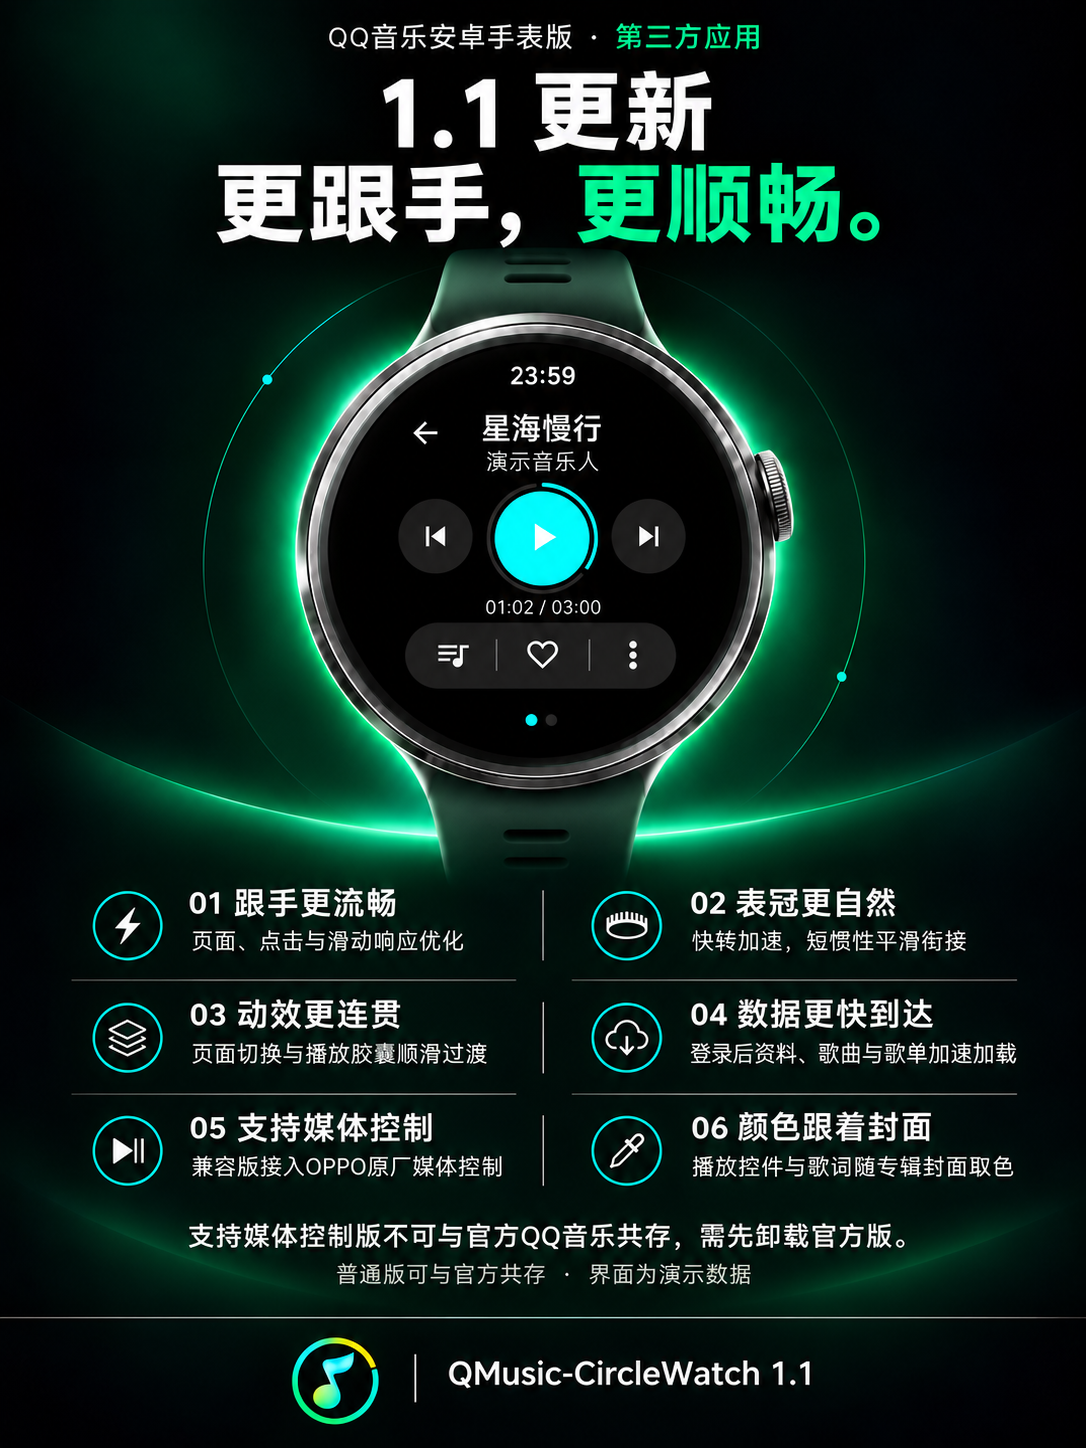
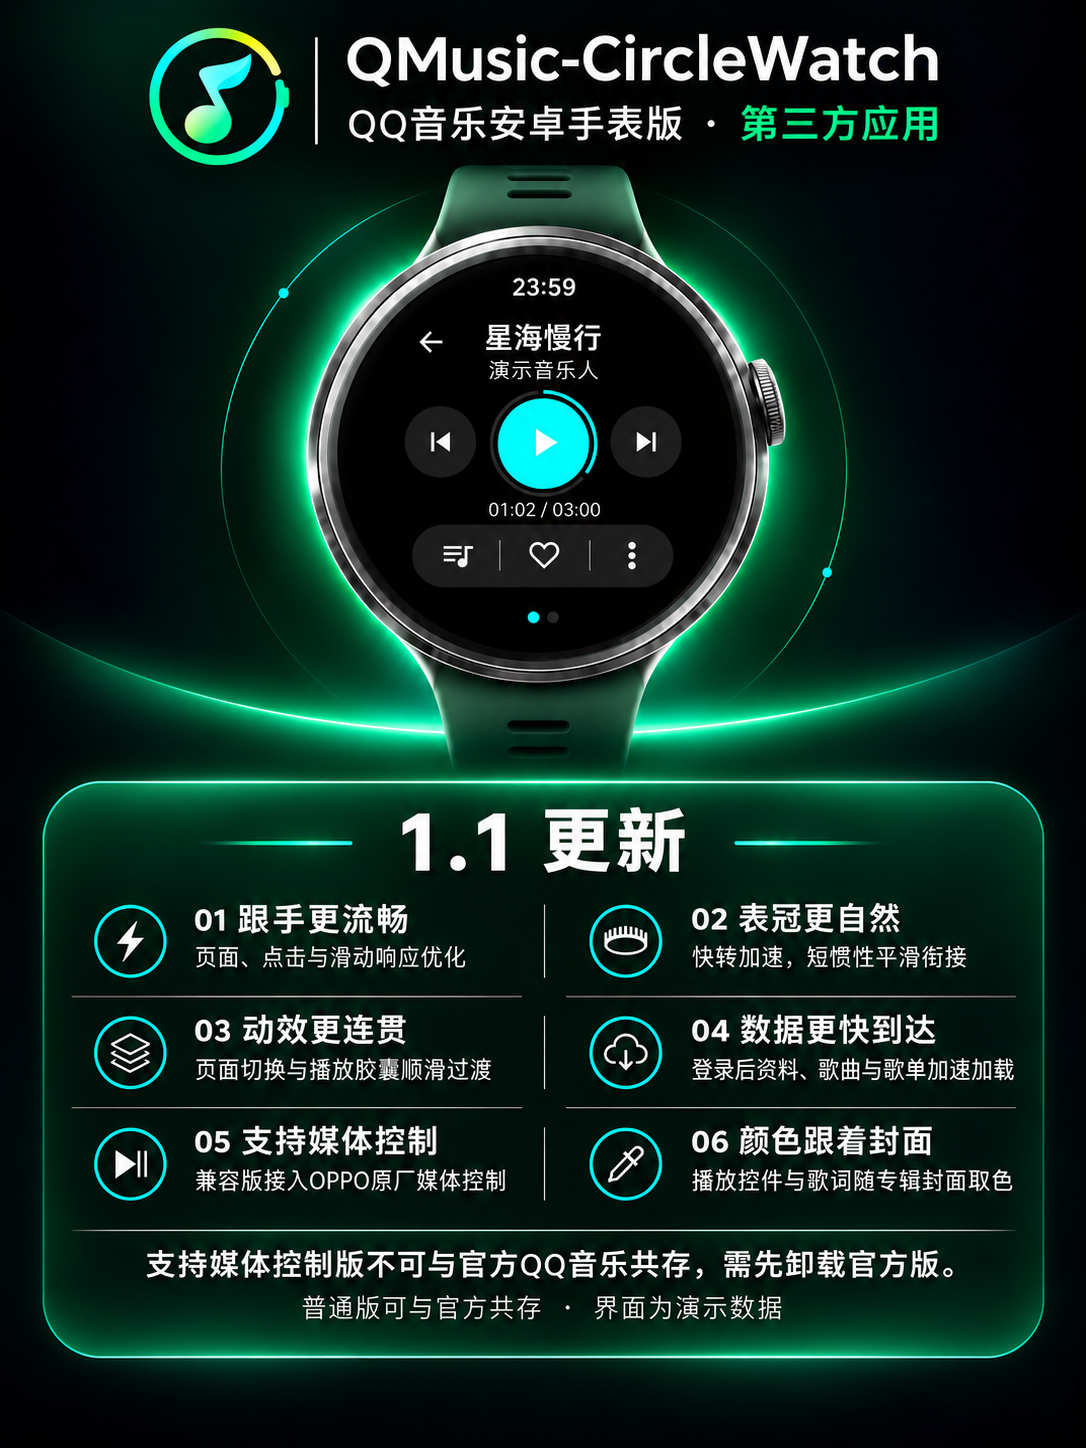
Refine 1.1 poster hierarchy and use stable private release links

diff --git a/docs/preview/index.html b/docs/preview/index.html
@@ -1,2 +1,2 @@
 <!doctype html><html lang="zh-CN"><meta charset="utf-8"><meta name="viewport" content="width=device-width,initial-scale=1"><title>QMusic-CircleWatch 1.1 · 界面预览</title><style>
-:root{color-scheme:dark}*{box-sizing:border-box}body{margin:0;background:#0c100f;color:#eef4f0;font:16px/1.8 system-ui,"Microsoft YaHei",sans-serif}main{max-width:1120px;margin:auto;padding:56px 28px}h1{font-size:clamp(30px,5vw,52px);line-height:1.2;margin:12px 0 20px}h2{margin-top:48px}p{max-width:860px;color:#b8c8c0}a{color:#65e4a3}.badge{color:#65e4a3;letter-spacing:.1em;font-size:13px}.grid{display:grid;grid-template-columns:repeat(auto-fit,minmax(235px,1fr));gap:24px}figure{margin:0;padding:24px 15px;background:#151c18;border:1px solid #29372f;border-radius:24px;text-align:center}img{display:block;width:100%;max-width:280px;height:auto;margin:auto;border-radius:50%}figcaption{margin-top:16px;color:#d8e8dd}ul{padding-left:22px;color:#b8c8c0}footer{margin-top:48px;border-top:1px solid #29372f;padding-top:24px;color:#91a599}.app-icon{width:100px;margin:24px 0;border-radius:0}.posters{max-width:520px;margin:24px auto 48px}.posters img{max-width:none;border-radius:12px}</style><main><div class="badge">PRIVATE REVIEW · VERSION 1.1</div><img class="app-icon" src="../../branding/qmusic-circlewatch-icon.png" alt="应用图标"><h1>QMusic-CircleWatch</h1><p>QQ 音乐安卓手表版第三方应用，适用于圆形表盘。</p><p>参考云松天气项目介绍页的组织方式，集中展示功能、二创变化与各界面的实际渲染。当前仓库已设为私有，1.1 工程、两个安装包和更新文档同步供用户审阅，确认后再公开。</p><p><a href="https://github.com/SIAKNG/QMusic-CircleWatch">源码与完整介绍</a> · <a href="https://github.com/SIAKNG/QMusic-CircleWatch/releases/tag/untagged-753d7a6a32293452e7a0">1.1 安装包草稿</a> · <a href="../UPSTREAM_DIFF.md">原版对照</a></p><p><a href="../RELEASE_1_1.md">1.1 双版本安装与更新说明</a></p><h2>1.1 主要更新</h2><ul><li>重点优化整体 APP 的使用流畅度与跟手性，改善页面打开、点击反馈、列表滑动等日常操作的响应，减少不必要的等待和界面刷新。</li><li>优化表冠滚动表现，调整快慢旋转的速度反馈、短惯性与首次起转响应，让滚动阻尼和松手后的停顿过渡更自然流畅。</li><li>优化页面打开、切换与逐层返回的动效，以及胶囊播放悬浮窗的展开和收起效果，让专辑图与容器的过渡更加连贯自然。</li><li>优化网络请求与数据复用，缩短登录后用户资料、歌曲列表及歌单的加载等待，让内容更快显示，重复进入页面时更快响应。</li><li>新增“支持媒体控制版”，在当前已验证的 OPPO 手表原厂媒体控制中显示歌曲、歌手、封面与应用图标，并支持播放、暂停及上下首操作。</li><li>支持专辑封面取色，播放控件、进度环及歌词高亮随当前歌曲的封面自动变换配色，让播放界面保持统一。</li></ul><p><strong>支持媒体控制版安装提示：</strong>支持媒体控制版使用与手表官方 QQ 音乐相同的应用包名，占用相同的安装位置，因此无法与官方 QQ 音乐共存。用户必须先卸载手表上的官方 QQ 音乐，才能安装此版本；卸载会删除官方应用的本地登录与下载数据。普通版可以与官方 QQ 音乐共存。</p><h2>应用介绍图</h2><p>首张宣传图为设计概览；实际界面效果见下方原生截图。</p><div class="posters"><a href="../posters/01-round-music.png"><img loading="lazy" src="../posters/01-round-music.png" alt="圆屏音乐"></a></div><h2>原生实机界面 · 22 张</h2><p>采集于 2026-11-01—2026-11-02，保留当时旧版占位图标，未重绘。</p><p>OWW251 · Android 11 · 466 × 466。图片由离线展示包复用真实页面生成，数据为演示内容；扫码页不可用于登录。点击查看未编辑的原始 PNG。</p><div class="grid"><figure><a href="../screenshots/showcase/home.png"><img loading="lazy" src="../screenshots/showcase/home.png" alt="发现首页"></a><figcaption>发现首页</figcaption></figure><figure><a href="../screenshots/showcase/home-mini.png"><img loading="lazy" src="../screenshots/showcase/home-mini.png" alt="收起的专辑圆标与进度环"></a><figcaption>收起的专辑圆标与进度环</figcaption></figure><figure><a href="../screenshots/showcase/my.png"><img loading="lazy" src="../screenshots/showcase/my.png" alt="我的音乐"></a><figcaption>我的音乐</figcaption></figure><figure><a href="../screenshots/showcase/search.png"><img loading="lazy" src="../screenshots/showcase/search.png" alt="搜索与历史"></a><figcaption>搜索与历史</figcaption></figure><figure><a href="../screenshots/showcase/search-results.png"><img loading="lazy" src="../screenshots/showcase/search-results.png" alt="搜索结果"></a><figcaption>搜索结果</figcaption></figure><figure><a href="../screenshots/showcase/login.png"><img loading="lazy" src="../screenshots/showcase/login.png" alt="扫码登录布局"></a><figcaption>扫码登录布局</figcaption></figure><figure><a href="../screenshots/showcase/liked.png"><img loading="lazy" src="../screenshots/showcase/liked.png" alt="喜欢的歌曲"></a><figcaption>喜欢的歌曲</figcaption></figure><figure><a href="../screenshots/showcase/created.png"><img loading="lazy" src="../screenshots/showcase/created.png" alt="自建歌单"></a><figcaption>自建歌单</figcaption></figure><figure><a href="../screenshots/showcase/collected.png"><img loading="lazy" src="../screenshots/showcase/collected.png" alt="收藏歌单"></a><figcaption>收藏歌单</figcaption></figure><figure><a href="../screenshots/showcase/recent.png"><img loading="lazy" src="../screenshots/showcase/recent.png" alt="最近播放"></a><figcaption>最近播放</figcaption></figure><figure><a href="../screenshots/showcase/detail.png"><img loading="lazy" src="../screenshots/showcase/detail.png" alt="歌单详情"></a><figcaption>歌单详情</figcaption></figure><figure><a href="../screenshots/showcase/downloads.png"><img loading="lazy" src="../screenshots/showcase/downloads.png" alt="缓存与任务"></a><figcaption>缓存与任务</figcaption></figure><figure><a href="../screenshots/showcase/player.png"><img loading="lazy" src="../screenshots/showcase/player.png" alt="播放控制"></a><figcaption>播放控制</figcaption></figure><figure><a href="../screenshots/showcase/lyrics.png"><img loading="lazy" src="../screenshots/showcase/lyrics.png" alt="逐字歌词与双语翻译"></a><figcaption>逐字歌词与双语翻译</figcaption></figure><figure><a href="../screenshots/showcase/queue.png"><img loading="lazy" src="../screenshots/showcase/queue.png" alt="播放队列"></a><figcaption>播放队列</figcaption></figure><figure><a href="../screenshots/showcase/settings.png"><img loading="lazy" src="../screenshots/showcase/settings.png" alt="设置中心"></a><figcaption>设置中心</figcaption></figure><figure><a href="../screenshots/showcase/settings-display.png"><img loading="lazy" src="../screenshots/showcase/settings-display.png" alt="显示与歌词设置"></a><figcaption>显示与歌词设置</figcaption></figure><figure><a href="../screenshots/showcase/settings-playback.png"><img loading="lazy" src="../screenshots/showcase/settings-playback.png" alt="播放设置"></a><figcaption>播放设置</figcaption></figure><figure><a href="../screenshots/showcase/settings-network.png"><img loading="lazy" src="../screenshots/showcase/settings-network.png" alt="网络与缓存设置"></a><figcaption>网络与缓存设置</figcaption></figure><figure><a href="../screenshots/showcase/settings-about.png"><img loading="lazy" src="../screenshots/showcase/settings-about.png" alt="关于与版本"></a><figcaption>关于与版本</figcaption></figure><figure><a href="../screenshots/showcase/font-selector.png"><img loading="lazy" src="../screenshots/showcase/font-selector.png" alt="选择弹层"></a><figcaption>选择弹层</figcaption></figure><figure><a href="../screenshots/showcase/confirm.png"><img loading="lazy" src="../screenshots/showcase/confirm.png" alt="确认弹窗"></a><figcaption>确认弹窗</figcaption></figure></div><footer>基于 huanghao897/QMusicWatch 0.9.14 二次开发，维护者 SIAKNG。原版已有部分圆屏、表冠与歌词能力。OWW251 已完成兼容版重新扫码与原厂媒体控制实测；账号写入、真实缓存、蓝牙和 X3 仍待进一步实机验收。更多说明见仓库 README 与 docs。</footer></main></html>
+:root{color-scheme:dark}*{box-sizing:border-box}body{margin:0;background:#0c100f;color:#eef4f0;font:16px/1.8 system-ui,"Microsoft YaHei",sans-serif}main{max-width:1120px;margin:auto;padding:56px 28px}h1{font-size:clamp(30px,5vw,52px);line-height:1.2;margin:12px 0 20px}h2{margin-top:48px}p{max-width:860px;color:#b8c8c0}a{color:#65e4a3}.badge{color:#65e4a3;letter-spacing:.1em;font-size:13px}.grid{display:grid;grid-template-columns:repeat(auto-fit,minmax(235px,1fr));gap:24px}figure{margin:0;padding:24px 15px;background:#151c18;border:1px solid #29372f;border-radius:24px;text-align:center}img{display:block;width:100%;max-width:280px;height:auto;margin:auto;border-radius:50%}figcaption{margin-top:16px;color:#d8e8dd}ul{padding-left:22px;color:#b8c8c0}footer{margin-top:48px;border-top:1px solid #29372f;padding-top:24px;color:#91a599}.app-icon{width:100px;margin:24px 0;border-radius:0}.posters{max-width:520px;margin:24px auto 48px}.posters img{max-width:none;border-radius:12px}</style><main><div class="badge">PRIVATE REVIEW · VERSION 1.1</div><img class="app-icon" src="../../branding/qmusic-circlewatch-icon.png" alt="应用图标"><h1>QMusic-CircleWatch</h1><p>QQ 音乐安卓手表版第三方应用，适用于圆形表盘。</p><p>参考云松天气项目介绍页的组织方式，集中展示功能、二创变化与各界面的实际渲染。当前仓库已设为私有，1.1 工程、两个安装包和更新文档同步供用户审阅，确认后再公开。</p><p><a href="https://github.com/SIAKNG/QMusic-CircleWatch">源码与完整介绍</a> · <a href="https://github.com/SIAKNG/QMusic-CircleWatch/releases">1.1 安装包草稿</a> · <a href="../UPSTREAM_DIFF.md">原版对照</a></p><p><a href="../RELEASE_1_1.md">1.1 双版本安装与更新说明</a></p><h2>1.1 主要更新</h2><ul><li>重点优化整体 APP 的使用流畅度与跟手性，改善页面打开、点击反馈、列表滑动等日常操作的响应，减少不必要的等待和界面刷新。</li><li>优化表冠滚动表现，调整快慢旋转的速度反馈、短惯性与首次起转响应，让滚动阻尼和松手后的停顿过渡更自然流畅。</li><li>优化页面打开、切换与逐层返回的动效，以及胶囊播放悬浮窗的展开和收起效果，让专辑图与容器的过渡更加连贯自然。</li><li>优化网络请求与数据复用，缩短登录后用户资料、歌曲列表及歌单的加载等待，让内容更快显示，重复进入页面时更快响应。</li><li>新增“支持媒体控制版”，在当前已验证的 OPPO 手表原厂媒体控制中显示歌曲、歌手、封面与应用图标，并支持播放、暂停及上下首操作。</li><li>支持专辑封面取色，播放控件、进度环及歌词高亮随当前歌曲的封面自动变换配色，让播放界面保持统一。</li></ul><p><strong>支持媒体控制版安装提示：</strong>支持媒体控制版使用与手表官方 QQ 音乐相同的应用包名，占用相同的安装位置，因此无法与官方 QQ 音乐共存。用户必须先卸载手表上的官方 QQ 音乐，才能安装此版本；卸载会删除官方应用的本地登录与下载数据。普通版可以与官方 QQ 音乐共存。</p><h2>应用介绍图</h2><p>首张宣传图为设计概览；实际界面效果见下方原生截图。</p><div class="posters"><a href="../posters/01-round-music.png"><img loading="lazy" src="../posters/01-round-music.png" alt="圆屏音乐"></a></div><h2>原生实机界面 · 22 张</h2><p>采集于 2026-11-01—2026-11-02，保留当时旧版占位图标，未重绘。</p><p>OWW251 · Android 11 · 466 × 466。图片由离线展示包复用真实页面生成，数据为演示内容；扫码页不可用于登录。点击查看未编辑的原始 PNG。</p><div class="grid"><figure><a href="../screenshots/showcase/home.png"><img loading="lazy" src="../screenshots/showcase/home.png" alt="发现首页"></a><figcaption>发现首页</figcaption></figure><figure><a href="../screenshots/showcase/home-mini.png"><img loading="lazy" src="../screenshots/showcase/home-mini.png" alt="收起的专辑圆标与进度环"></a><figcaption>收起的专辑圆标与进度环</figcaption></figure><figure><a href="../screenshots/showcase/my.png"><img loading="lazy" src="../screenshots/showcase/my.png" alt="我的音乐"></a><figcaption>我的音乐</figcaption></figure><figure><a href="../screenshots/showcase/search.png"><img loading="lazy" src="../screenshots/showcase/search.png" alt="搜索与历史"></a><figcaption>搜索与历史</figcaption></figure><figure><a href="../screenshots/showcase/search-results.png"><img loading="lazy" src="../screenshots/showcase/search-results.png" alt="搜索结果"></a><figcaption>搜索结果</figcaption></figure><figure><a href="../screenshots/showcase/login.png"><img loading="lazy" src="../screenshots/showcase/login.png" alt="扫码登录布局"></a><figcaption>扫码登录布局</figcaption></figure><figure><a href="../screenshots/showcase/liked.png"><img loading="lazy" src="../screenshots/showcase/liked.png" alt="喜欢的歌曲"></a><figcaption>喜欢的歌曲</figcaption></figure><figure><a href="../screenshots/showcase/created.png"><img loading="lazy" src="../screenshots/showcase/created.png" alt="自建歌单"></a><figcaption>自建歌单</figcaption></figure><figure><a href="../screenshots/showcase/collected.png"><img loading="lazy" src="../screenshots/showcase/collected.png" alt="收藏歌单"></a><figcaption>收藏歌单</figcaption></figure><figure><a href="../screenshots/showcase/recent.png"><img loading="lazy" src="../screenshots/showcase/recent.png" alt="最近播放"></a><figcaption>最近播放</figcaption></figure><figure><a href="../screenshots/showcase/detail.png"><img loading="lazy" src="../screenshots/showcase/detail.png" alt="歌单详情"></a><figcaption>歌单详情</figcaption></figure><figure><a href="../screenshots/showcase/downloads.png"><img loading="lazy" src="../screenshots/showcase/downloads.png" alt="缓存与任务"></a><figcaption>缓存与任务</figcaption></figure><figure><a href="../screenshots/showcase/player.png"><img loading="lazy" src="../screenshots/showcase/player.png" alt="播放控制"></a><figcaption>播放控制</figcaption></figure><figure><a href="../screenshots/showcase/lyrics.png"><img loading="lazy" src="../screenshots/showcase/lyrics.png" alt="逐字歌词与双语翻译"></a><figcaption>逐字歌词与双语翻译</figcaption></figure><figure><a href="../screenshots/showcase/queue.png"><img loading="lazy" src="../screenshots/showcase/queue.png" alt="播放队列"></a><figcaption>播放队列</figcaption></figure><figure><a href="../screenshots/showcase/settings.png"><img loading="lazy" src="../screenshots/showcase/settings.png" alt="设置中心"></a><figcaption>设置中心</figcaption></figure><figure><a href="../screenshots/showcase/settings-display.png"><img loading="lazy" src="../screenshots/showcase/settings-display.png" alt="显示与歌词设置"></a><figcaption>显示与歌词设置</figcaption></figure><figure><a href="../screenshots/showcase/settings-playback.png"><img loading="lazy" src="../screenshots/showcase/settings-playback.png" alt="播放设置"></a><figcaption>播放设置</figcaption></figure><figure><a href="../screenshots/showcase/settings-network.png"><img loading="lazy" src="../screenshots/showcase/settings-network.png" alt="网络与缓存设置"></a><figcaption>网络与缓存设置</figcaption></figure><figure><a href="../screenshots/showcase/settings-about.png"><img loading="lazy" src="../screenshots/showcase/settings-about.png" alt="关于与版本"></a><figcaption>关于与版本</figcaption></figure><figure><a href="../screenshots/showcase/font-selector.png"><img loading="lazy" src="../screenshots/showcase/font-selector.png" alt="选择弹层"></a><figcaption>选择弹层</figcaption></figure><figure><a href="../screenshots/showcase/confirm.png"><img loading="lazy" src="../screenshots/showcase/confirm.png" alt="确认弹窗"></a><figcaption>确认弹窗</figcaption></figure></div><footer>基于 huanghao897/QMusicWatch 0.9.14 二次开发，维护者 SIAKNG。原版已有部分圆屏、表冠与歌词能力。OWW251 已完成兼容版重新扫码与原厂媒体控制实测；账号写入、真实缓存、蓝牙和 X3 仍待进一步实机验收。更多说明见仓库 README 与 docs。</footer></main></html>

diff --git a/docs/updates/README.md b/docs/updates/README.md
@@ -2,6 +2,8 @@
 
 qmusic-circlewatch-1.1.png 为 1086 × 1448 更新介绍海报，使用内置图像生成工具制作，参考维护者此前“圆屏音乐”效果图的黑绿配色、银色圆表、光环与中文排版风格，沿用本项目已确认的应用图标。
 
+当前为用户确认方向后的第二版排布：放大图标、应用名称与第三方身份并移到顶部，圆表上移；“1.1 更新”和六项内容统一放入下方整体区块，移除“更跟手，更顺畅”标语和重复页尾品牌栏。
+
 介绍流畅度与跟手性、表冠滚动、页面及胶囊动效、数据读取、支持媒体控制版、专辑封面取色六项更新。图内手表是介绍性合成画面，曲名与艺人为演示数据，不属于真实账号截图，不能代表实机帧率或功耗测量。
 
 海报注明支持媒体控制版不能与官方 QQ 音乐共存，需先卸载官方版；普通版可以共存。设备验证范围与使用方式以 docs/RELEASE_1_1.md 为准。
